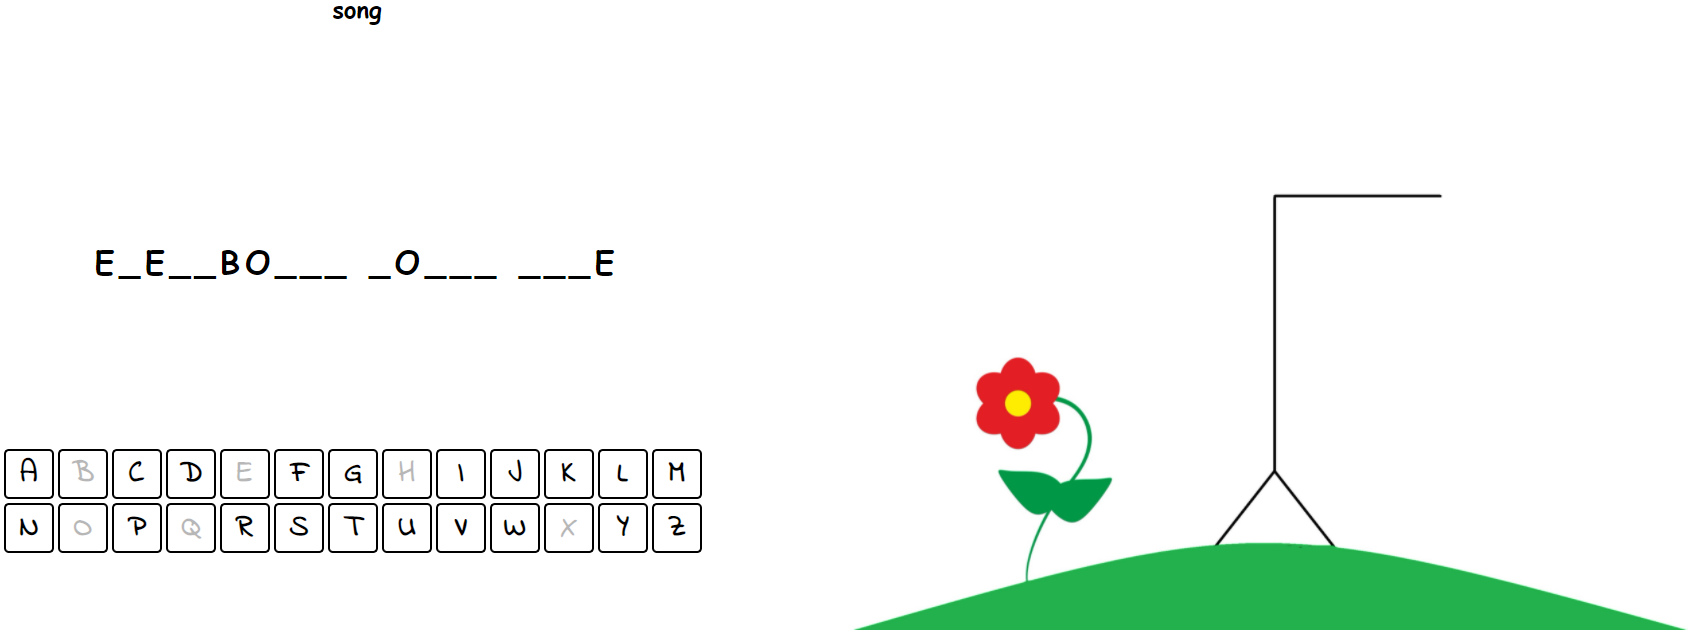
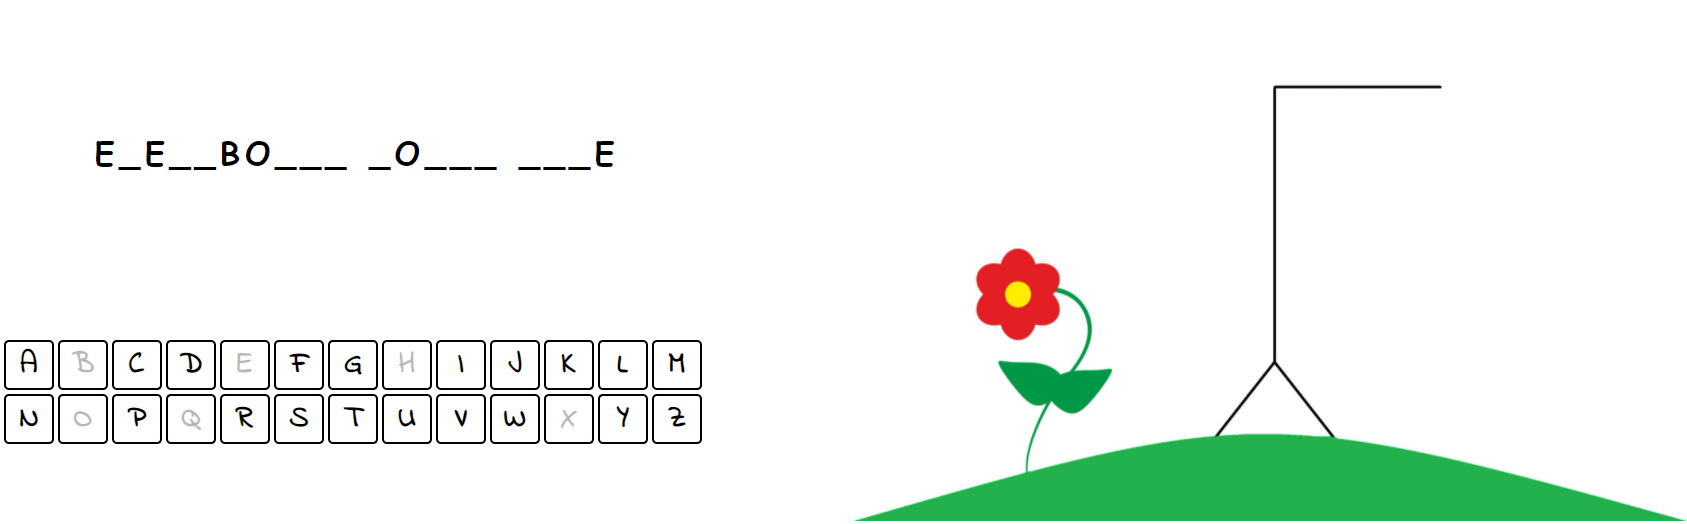
scss adedd

diff --git a/main.js b/main.js
@@ -8,21 +8,21 @@ const content = [
     image:
       '<a href="https://bartosz-lesniewski.github.io/games/Hangman/hangman.html"><img  class=\'bottom__img\' src="https://bartosz-lesniewski.github.io/games/Hangman/images/okladka.png" alt="Game picture"></a>',
     gameInfo:
-      '<h2>- Kliknij w obrazek aby włączyć grę</br>- Early access nie bierze pod uwagę znaków diaktrycznych, weź to pod uwagę :)</br>- Masz 8 żyć</br></h2><h3>Baw się dobrze :)</h3>',
+      "<h2 class='top__h2'>- Kliknij w obrazek aby włączyć grę</br>- Early access nie bierze pod uwagę znaków diaktrycznych, weź to pod uwagę :)</br>- Masz 8 żyć</br></h2><h3>Baw się dobrze :)</h3>",
   },
   {
     game: 'Saper',
     image:
-      '<a href="https://bartosz-lesniewski.github.io/games/Saper/saper.html"><img class=\'saper\' src="https://bartosz-lesniewski.github.io/games/Saper/images/okladka.png" alt="Game picture"></a>',
+      '<a href="https://bartosz-lesniewski.github.io/games/Saper/saper.html"><img class=\'bottom__img\' src="https://bartosz-lesniewski.github.io/games/Saper/images/okladka.png" alt="Game picture"></a>',
     gameInfo:
-      '<h2>- Kliknij w obrazek aby włączyć grę</br>- gra w wersji Alpha, jak trafisz na minę, to gra zwróci czerwone tło w tym miejscu. </br>- Można grać, wygrać lub przegrać, ale obecna wersja nie podpowiada ile min jest przy danym polu</br></h2><h3>Baw się dobrze :)</h3>',
+      "<h2 class='top__h2'>- Kliknij w obrazek aby włączyć grę</br>- gra w wersji Alpha, jak trafisz na minę, to gra zwróci czerwone tło w tym miejscu. </br>- Można grać, wygrać lub przegrać, ale obecna wersja nie podpowiada ile min jest przy danym polu</br></h2><h3>Baw się dobrze :)</h3>",
   },
   {
     game: 'One Armed Bandit',
     image:
-      '<a href="https://bartosz-lesniewski.github.io/games/One Armed Bandit/index.html"><img class=\'oab\' src="https://bartosz-lesniewski.github.io/games/One Armed Bandit/okladka.png" alt="Game picture"></a>',
+      '<a href="https://bartosz-lesniewski.github.io/games/One Armed Bandit/index.html"><img class=\'bottom__img\' src="https://bartosz-lesniewski.github.io/games/One Armed Bandit/okladka.png" alt="Game picture"></a>',
     gameInfo:
-      '<h2>- Kliknij w obrazek aby włączyć grę</br>- gra w wersji Beta. </br>- Można grać, wygrać lub przegrać, obecna wersja nie podlicza statystyk, reszta działa jak należy :)</br></h2><h3>Baw się dobrze :)</h3>',
+      "<h2 class='top__h2'>- Kliknij w obrazek aby włączyć grę</br>- gra w wersji Beta. </br>- Można grać, wygrać lub przegrać, obecna wersja nie podlicza statystyk, reszta działa jak należy :)</br></h2><h3>Baw się dobrze :)</h3>",
   },
 ];
 
@@ -47,7 +47,7 @@ const changeRight = () => {
 };
 
 const addButtons = () => {
-  topLeftWrapper.innerHTML = `<button class='top__btn-back'> <- Zmień grę! </button> <h1>${content[contentIndex].game}</h1> <button class='top__btn-forward'> Zmień Grę! -> </button>`;
+  topLeftWrapper.innerHTML = `<h1 class='top__h1'>${content[contentIndex].game}</h1> <button class='top__btn-back'> Zmień grę! <- </button> <button class='top__btn-forward'> Zmień Grę! -> </button>`;
 };
 
 const changeImage = () => {

diff --git a/css/style.css b/css/style.css
@@ -1,2 +1,2 @@
-@import url("https://fonts.googleapis.com/css2?family=Montserrat:wght@100;400;700&display=swap");.page{font-family:'Montserrat', sans-serif;margin:0;padding:0;display:-webkit-box;display:-ms-flexbox;display:flex;-ms-flex-wrap:wrap;flex-wrap:wrap;width:100vw;height:100vh}.page .top{padding-top:50px;display:-webkit-box;display:-ms-flexbox;display:flex;-webkit-box-pack:center;-ms-flex-pack:center;justify-content:center;-ms-flex-preferred-size:100%;flex-basis:100%;margin:0 auto}.page .top__left{padding:0 50px;-ms-flex-preferred-size:30%;flex-basis:30%}.page .top__right{max-width:40%;padding:0 50px}.page .bottom{display:-webkit-box;display:-ms-flexbox;display:flex;-webkit-box-pack:center;-ms-flex-pack:center;justify-content:center;-ms-flex-preferred-size:100%;flex-basis:100%;margin:0 100px}.page .bottom__img{padding-top:1%;max-width:100%}
+@import url("https://fonts.googleapis.com/css2?family=Montserrat:wght@100;400;700&display=swap");.page{font-family:'Montserrat', sans-serif;margin:0;padding:0;display:-webkit-box;display:-ms-flexbox;display:flex;-ms-flex-wrap:wrap;flex-wrap:wrap;width:100vw;height:100vh}.page .top{padding-top:50px;display:-webkit-box;display:-ms-flexbox;display:flex;-webkit-box-pack:center;-ms-flex-pack:center;justify-content:center;-ms-flex-preferred-size:100%;flex-basis:100%;height:210px;margin:0 auto}.page .top__left{display:-webkit-box;display:-ms-flexbox;display:flex;padding:0 50px;-ms-flex-preferred-size:30%;flex-basis:30%;-ms-flex-wrap:wrap;flex-wrap:wrap;-webkit-box-pack:center;-ms-flex-pack:center;justify-content:center}.page .top__right{max-width:40%;padding:0 50px;background-color:#f2f2f2}.page .top__btn-back{font-size:25px;background-color:white;border-radius:15px;width:150px;height:75px;margin-right:5px}.page .top__btn-back:hover{background-color:#f2f2f2;cursor:pointer;border-color:darkred}.page .top__btn-forward{font-size:25px;margin-left:10px;height:75px;width:150px;border-radius:15px;background-color:white}.page .top__btn-forward:hover{background-color:#f2f2f2;cursor:pointer;border-color:darkred}.page .top__h1{display:-webkit-box;display:-ms-flexbox;display:flex;-webkit-box-pack:center;-ms-flex-pack:center;justify-content:center;-ms-flex-preferred-size:90%;flex-basis:90%}.page .top__h2{font-weight:normal}.page .bottom{display:-webkit-box;display:-ms-flexbox;display:flex;-webkit-box-pack:center;-ms-flex-pack:center;justify-content:center;-ms-flex-preferred-size:100%;flex-basis:100%;margin:0 100px}.page .bottom__img{max-width:100%}
 /*# sourceMappingURL=style.css.map */

diff --git a/sass/style.scss b/sass/style.scss
@@ -14,14 +14,53 @@
     display: flex;
     justify-content: center;
     flex-basis: 100%;
+    height: 210px;
     margin: 0 auto;
     &__left {
+      display: flex;
       padding: 0 50px;
       flex-basis: 30%;
+      flex-wrap: wrap;
+      justify-content: center;
     }
     &__right {
       max-width: 40%;
       padding: 0 50px;
+      background-color: darken($color: white, $amount: 5%);
+    }
+    &__btn-back {
+      font-size: 25px;
+      background-color: white;
+      border-radius: 15px;
+      width: 150px;
+      height: 75px;
+      margin-right: 5px;
+      &:hover {
+        background-color: darken($color: white, $amount: 5%);
+        cursor: pointer;
+        border-color: darkred;
+      }
+    }
+    &__btn-forward {
+      font-size: 25px;
+      margin-left: 10px;
+      height: 75px;
+      width: 150px;
+      border-radius: 15px;
+      background-color: white;
+      &:hover {
+        background-color: darken($color: white, $amount: 5%);
+        cursor: pointer;
+        border-color: darkred;
+      }
+    }
+    &__h1 {
+      display: flex;
+      justify-content: center;
+      flex-basis: 90%;
+    }
+    &__h2 {
+      font-weight: normal;
     }
   }
 
@@ -31,7 +70,6 @@
     flex-basis: 100%;
     margin: 0 100px;
     &__img {
-      padding-top: 1%;
       max-width: 100%;
     }
   }
